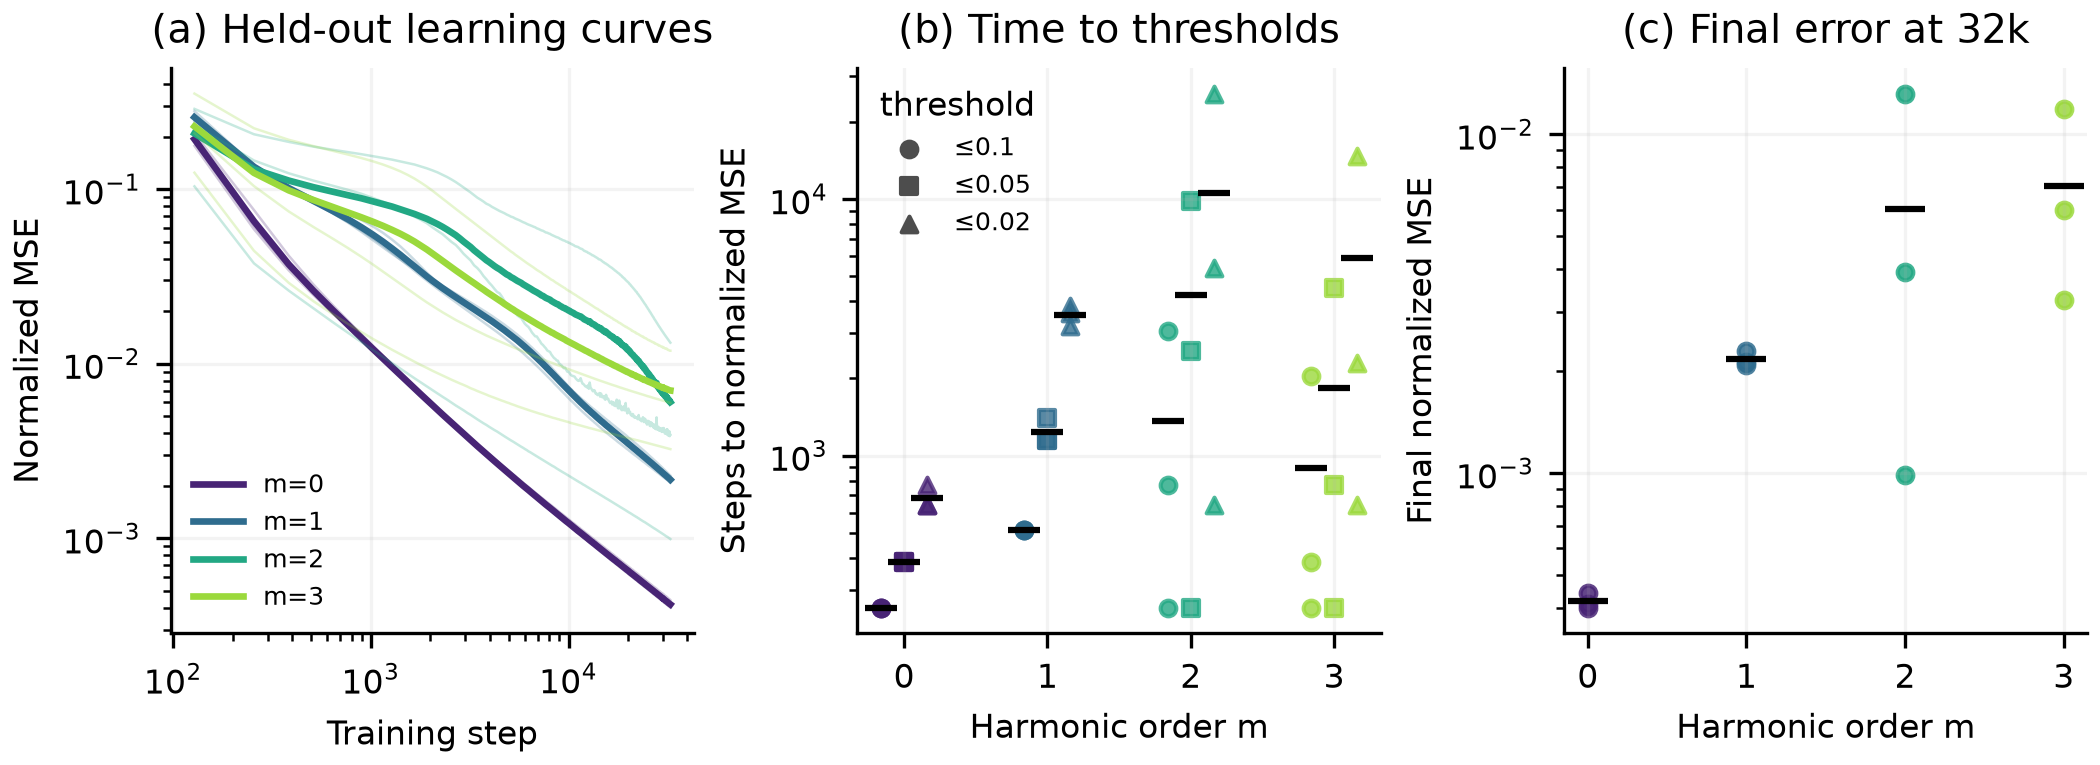
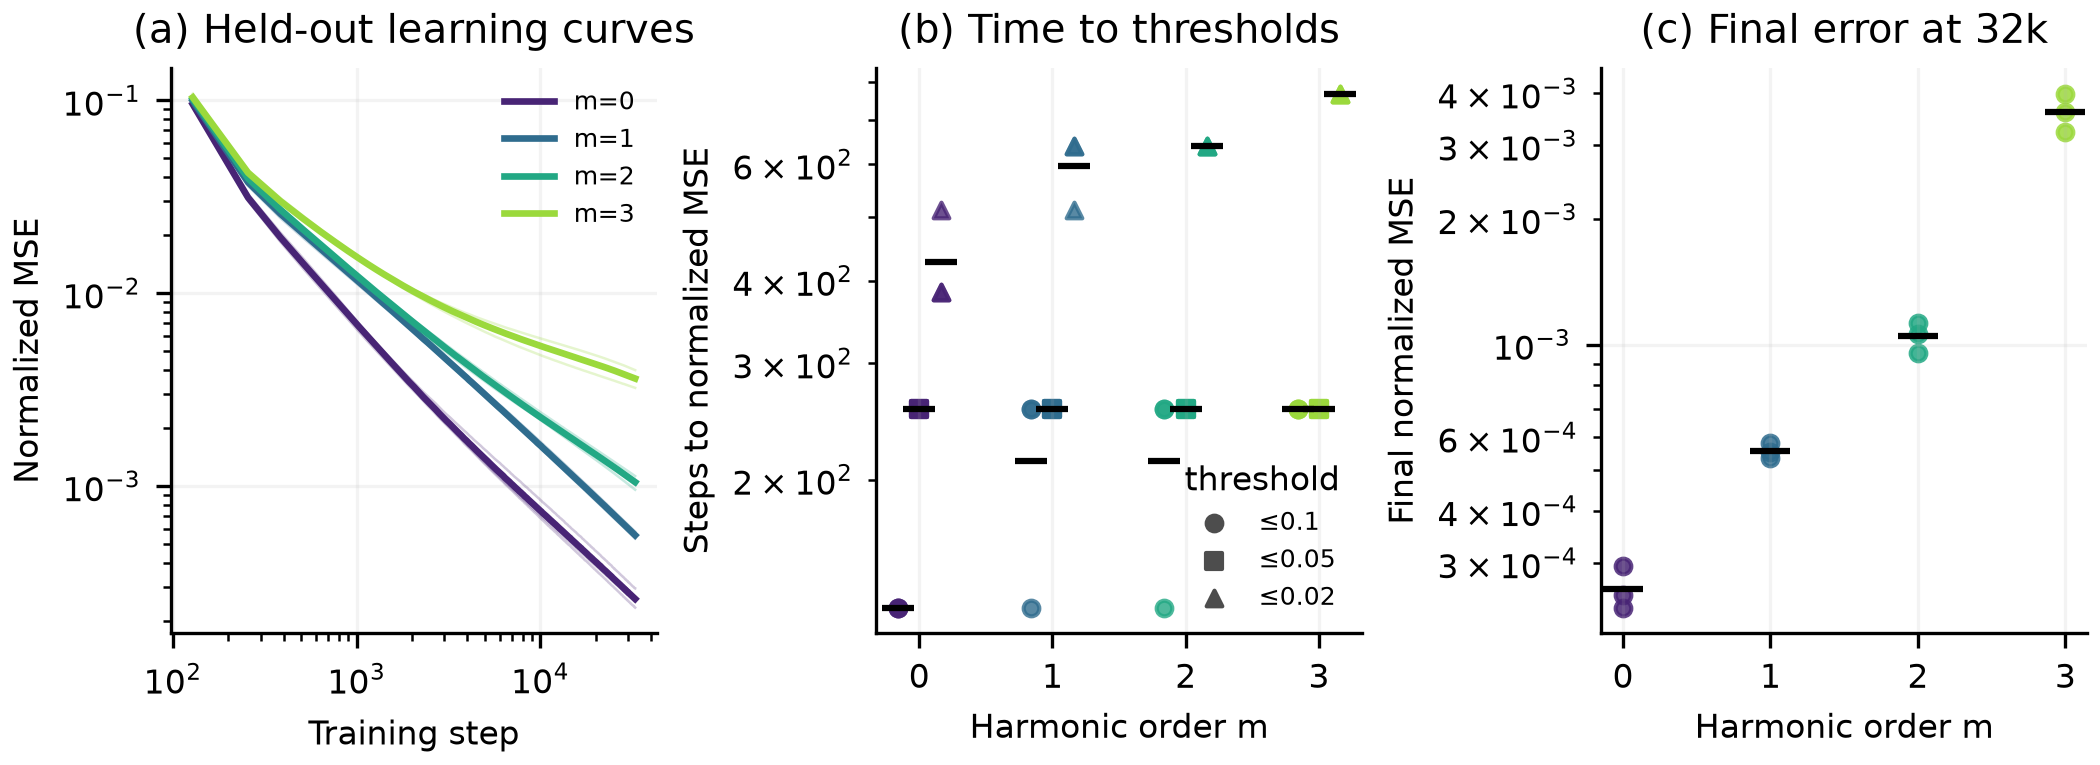
backup

diff --git a/src/bias/data.py b/src/bias/data.py
@@ -77,7 +77,8 @@ def make_phase_map(bands, levels, beta, n_per, ctx, k, seed, map_seed=None):
     modulation is ``beta`` at every level. ``map_seed`` controls the fixed harmonic
     phases; train and probe corpora must share it. ``seed`` controls window phases.
     Each window is RMS-normalized to total power 0.5, because a circle map's invariant
-    phase density need not be uniform.
+    phase density need not be uniform. Asserts that every carrier's phase velocity
+    ``omega + g(theta)`` stays positive, so no carrier locks.
     """
     bands = torch.as_tensor(bands, dtype=torch.float64).flatten()
     levels = torch.as_tensor(levels, dtype=torch.long).flatten()
@@ -101,6 +102,16 @@ def make_phase_map(bands, levels, beta, n_per, ctx, k, seed, map_seed=None):
         2
         * math.pi
         * torch.rand((n_bands, max_level), generator=map_gen, dtype=torch.float64)
+    )
+    grid = torch.linspace(0, 2 * math.pi, 4096, dtype=torch.float64)
+    advance = omega[:, None] + sum(
+        (levels >= harmonic).double()[:, None]
+        * gamma[:, None]
+        * torch.sin(harmonic * grid + harmonic_phase[:, harmonic - 1, None])
+        for harmonic in range(1, max_level + 1)
+    )
+    assert bool((advance > 0).all()), (
+        f"phase locks: min advance {advance.min(dim=1).values.tolist()}"
     )
     x = torch.zeros((n, ctx + k), dtype=torch.float64)
     for t in range(ctx + k):

diff --git a/experiments/2_map_complexity/scripts/run.py b/experiments/2_map_complexity/scripts/run.py
@@ -9,7 +9,7 @@ import torch.nn.functional as F
 from bias.data import make_phase_map
 from bias.model import SimTFM
 
-BANDS = (0.5, 2.5, 4.5, 6.5)
+BANDS = (2.5, 4.5, 6.5)
 LEVELS = (0, 1, 2, 3)
 BETA = 0.1
 CTX = 512

diff --git a/experiments/2_map_complexity/README.md b/experiments/2_map_complexity/README.md
@@ -3,9 +3,10 @@
 ## TLDR
 
 Adding nonlinearity to the one-step phase map slows learning relative to a pure
-rotation, but harmonic count is not a scalar complexity ordering. With power, carriers,
-state dimension, and initialization fixed, `m=2` is on average slower than `m=3`, and
-the ordering varies strongly across harmonic-phase realizations.
+rotation, and the slowdown is largest at the highest order once the carrier is in the
+no-lock regime. With power, carriers, state dimension, and initialization fixed,
+`m=0` reaches the highest final variance and `m=3` the lowest; `m=1` and `m=2` are
+close.
 
 ## What it does
 
@@ -18,7 +19,7 @@ x_i(t)=A_i\cos\theta_i(t),
 \sum_{k=1}^{m}\gamma_k\sin(k\theta_i(t)+\phi_k).
 \]
 
-- `ω_i` sets the carrier frequency.
+- `ω_i` sets the base carrier frequency.
 - `m` is the discrete complexity level: 0 is a pure rotation; 1, 2, and 3 add
   nonlinear phase harmonics.
 - Phase advances are defined per timestep, independent of patch boundaries.
@@ -30,12 +31,16 @@ x_i(t)=A_i\cos\theta_i(t),
 - Phase recurrence is evaluated in float64; float32 accumulation creates spurious
   sidebands over long records.
 
-Fixed carriers are `b = {0.5, 2.5, 4.5, 6.5}` cycles/patch. They are shared by every
-seed and every `m`.
+Fixed carriers are `b = {2.5, 4.5, 6.5}` cycles/patch. They are shared by every seed
+and every `m`. An earlier set included `b=0.5`, where `ω = 2πb/k ≈ 0.196` is comparable
+to the maximum modulation `β√(2m) ≤ 0.245`; some harmonic-phase draws then satisfy
+`ω + g(θ) ≤ 0`, the phase locks, and that carrier becomes a constant. At `b ≥ 2.5`,
+`min(ω + g) ≥ 0.78`, so no carrier can lock; the realized rotation number is within 1%
+of nominal. `make_phase_map` asserts this condition.
 
 - `k=16`, `ctx=512`, `H=64`, two layers, four heads.
 - 32,768 steps, batch 128, checkpoints every 128 steps.
-- Each model contains all four carriers at one `m`; models are not mixtures of map
+- Each model contains all three carriers at one `m`; models are not mixtures of map
   orders. A mixed model would make full-waveform error impossible to attribute.
 - Within a seed, `m=0,1,2,3` share carriers, initial phases, map phases, initial
   weights, and batch order. The three seeds vary phases, initialization, and batch
@@ -50,15 +55,16 @@ seed and every `m`.
 | --- | --- | --- |
 | total power | yes | constant envelope plus per-window RMS normalization |
 | intrinsic state dimension | yes | one scalar phase per carrier; `m` adds harmonics, not state variables |
-| carrier set | yes | four fixed carriers across all seeds and levels |
+| carrier set | yes | three fixed carriers across all seeds and levels |
 | map nonlinear order | manipulated | `m=0..3` |
 | observed spectral bandwidth | **not fixed** | phase modulation creates sidebands; measured and reported |
 | waveform complexity | changes with `m` | this is the treatment |
 
-The experiment supports a narrower statement than “higher order is harder”:
+The experiment supports a bounded statement:
 
-> Nonlinear phase maps change the learning schedule relative to a pure rotation, but
-> harmonic count alone is not a monotone measure of difficulty.
+> Nonlinear phase maps slow learning relative to a pure rotation, and the slowdown is
+> largest at the highest order in the no-lock regime. Adjacent orders `m=1` and `m=2`
+> are not resolved.
 
 It does **not** support a cross-carrier invariance claim. A phase-modulated signal is
 not a single carrier line: most power may sit near a carrier, but sidebands change the
@@ -108,8 +114,9 @@ observable function. It is not the full target map, because the model does not o
 
 ![data pilot](figs/data_pilot.png)
 
-*One carrier at `b=1` with identical initial phase. (a) Waveforms for `m=0..3`,
-vertically offset. (b) Phase-map derivative over one phase period. (c) Spectra.*
+*Pilot at `b=1` so the carrier sits on an FFT bin; the experiment uses
+`b={2.5,4.5,6.5}`. (a) Waveforms for `m=0..3`, vertically offset. (b) Phase-map
+derivative over one phase period. (c) Spectra.*
 
 | `m` | min derivative | phase RMS | spectral entropy | 95% bandwidth | RMS |
 | ---: | ---: | ---: | ---: | ---: | ---: |
@@ -118,10 +125,13 @@ vertically offset. (b) Phase-map derivative over one phase period. (c) Spectra.*
 | 2 | 0.741 | 0.100 | 0.028 | 0.150 | 0.707 |
 | 3 | 0.603 | 0.100 | 0.146 | 0.133 | 0.707 |
 
-- All maps remain orientation-preserving (`min derivative > 0`).
+- All maps remain orientation-preserving (`min derivative > 0`). This checks
+  invertibility, not phase advance; the generator separately asserts `min(ω+g)>0` for
+  the actual carriers.
 - Total RMS is exactly fixed at `sqrt(0.5)`.
-- Neither 95% bandwidth nor spectral entropy increases monotonically with `m`, so the
-  pilot does not support a simple “more sidebands means slower learning” explanation.
+- Neither 95% bandwidth nor spectral entropy increases monotonically with `m`. The
+  learning result is therefore about the latent map, not simply the observed sideband
+  width.
 
 ## Results
 
@@ -131,23 +141,24 @@ vertically offset. (b) Phase-map derivative over one phase period. (c) Spectra.*
 thick curves are means. (a) Held-out normalized MSE. (b) Steps to normalized-MSE
 thresholds; marks are seeds, dashes are means. (c) Final error.*
 
-| `m` | variance at 4096 | final variance | final range | `t(NMSE≤0.1)`, seeds |
+| `m` | variance at 4096 | final variance | final range | `t(NMSE≤0.02)`, seeds |
 | ---: | ---: | ---: | ---: | --- |
-| 0 | 0.9971 | 0.9996 | 0.9996–0.9996 | 256, 256, 256 |
-| 1 | 0.9813 | 0.9977 | 0.9975–0.9978 | 512, 512, 512 |
-| 2 | 0.9603 | 0.9936 | 0.9866–0.9990 | 3,072, 768, 256 |
-| 3 | 0.9753 | 0.9928 | 0.9884–0.9962 | 256, 384, 2,048 |
+| 0 | 0.9983 | 0.9997 | 0.9997–0.9998 | 384, 512, 384 |
+| 1 | 0.9964 | 0.9994 | 0.9994–0.9995 | 640, 640, 512 |
+| 2 | 0.9958 | 0.9989 | 0.9989–0.9990 | 640, 640, 640 |
+| 3 | 0.9926 | 0.9964 | 0.9960–0.9968 | 768, 768, 768 |
 
-- `m=0` is consistently fastest and reaches the highest final variance.
-- Every nonlinear map is slower than the pure rotation at 4096 steps on average.
-- The nonlinear ordering is **not monotone**: `m=2` is the slowest on average, while
-  `m=3` is faster for two of three seeds. Seed 0's `m=3` reaches `NMSE≤0.1` at the same
-  first checkpoint as `m=0`.
+- `m=0` is fastest and reaches the highest final variance; `m=3` is slowest and lowest.
+  Final variance is monotone in `m`: `0.9997 > 0.9994 > 0.9989 > 0.9964`.
+- Every nonlinear map is slower than the pure rotation at 4096 steps: `0.9964–0.9926`
+  versus `0.9983`.
+- The separation is modest at loose thresholds: at `NMSE≤0.05` every arm reaches by 256
+  steps. At `NMSE≤0.02`, `m=0` takes 384–512 steps, `m=3` takes 768, while `m=1` and
+  `m=2` are close (512–640). Do not overclaim an ordering between adjacent `m`.
+- Seed variance is small; the three harmonic-phase realizations agree on the ordering.
+  The earlier `b=0.5` run was different because phase locking turned one carrier into a
+  constant; that run is not evidence about `m`.
 - All arms improve through 32k steps; there is no evidence for a converged floor.
-- The three seeds differ in harmonic phases. This variation is large enough that
-  “number of harmonics” cannot be treated as a scalar complexity axis. A useful next
-  step would be more map realizations, or a complexity statistic tied to the realized
-  phase map rather than its formal order.
 
 ## Blog visualisation
 

diff --git a/.agents/PLAN.md b/.agents/PLAN.md
@@ -37,7 +37,7 @@ the learning curves have plateaued.
 | --- | --- | --- | --- |
 | `0_power_schedule` | does assigned power set the learning schedule? | complete | final `Δk` Spearman `−0.992` with log power, `−0.090` with frequency; `t ∝ P^-1.083`, `R²=0.999` |
 | `1_snr_schedule` | does white noise slow learning, and is high frequency only a proxy for low SNR? | complete | `t(Δk≤0.5)` rises 723 → 3,119 steps as noise/signal RMS rises 0→1; red and anti-red level curves almost coincide |
-| `2_map_complexity` | does nonlinear phase-map order alone change the schedule? | complete | nonlinear maps slower than pure rotation, but `m` is not monotone: mean `t(NMSE≤0.1)` is 256 / 512 / 1,365 / 896 for `m=0..3`; map realization dominates |
+| `2_map_complexity` | does nonlinear phase-map order alone change the schedule? | complete | nonlinear maps slower than pure rotation; final variance monotone in `m` (0.9997 / 0.9994 / 0.9989 / 0.9964); `m=0` vs `m=3` separated at `t(NMSE≤0.02)`, `m=1`/`m=2` close |
 
 ### Group 0 details
 
@@ -63,7 +63,11 @@ the learning curves have plateaued.
 
 ### Group 2 details
 
-- Four fixed carriers `{0.5, 2.5, 4.5, 6.5}`, `k=16`, `ctx=512`, `H=64`, two layers.
+- Three fixed carriers `{2.5, 4.5, 6.5}`, `k=16`, `ctx=512`, `H=64`, two layers.
+  The earlier set included `b=0.5`; there `ω ≈ 0.196` is comparable to the modulation
+  peak `β√(2m) ≤ 0.245`, so some harmonic-phase draws lock the phase (`ω+g ≤ 0`) and
+  turn that carrier into a constant. At `b ≥ 2.5`, `min(ω+g) ≥ 0.78`; `make_phase_map`
+  asserts this.
 - Generalized circle map per timestep with `m` harmonics and fixed phase-modulation RMS
   `β=0.1`.
 - One model per `m`; all carriers in a model share the same `m`. Within a seed the four
@@ -77,18 +81,19 @@ the learning curves have plateaued.
   full history-to-next map `H_m` also contains phase inference. We therefore claim
   control of latent map order, not ambient `R^L` Fourier rank; circle maps are chosen
   for power and state-dimension control.
-- Result: nonlinear maps are slower than the pure rotation, but the nonlinear ordering
-  is not monotone. `m=2` is on average slowest; `m=3` is faster for two of three
-  harmonic-phase realizations. All arms still improve at 32k, so this is not a
-  converged-floor result.
-- The useful claim is therefore “map nonlinearity carries a learning cost; harmonic
-  count alone is not a scalar complexity ordering.”
+- Result (safe carriers): nonlinear maps are slower than the pure rotation, and final
+  variance is monotone in `m`: `0.9997 > 0.9994 > 0.9989 > 0.9964` for `m=0..3`. At
+  `t(NMSE≤0.02)`, `m=0` takes 384–512 steps and `m=3` 768; `m=1` and `m=2` are close
+  (512–640). Seed variance is small. All arms still improve at 32k.
+- The earlier `b=0.5` run produced a spurious non-monotone ordering because phase
+  locking turned one carrier into a constant. Do not report those numbers.
 
 ## Immediate work
 
-1. For group 2, decide whether to add more harmonic-phase realizations or define a
-   realized-map complexity statistic. Do not present `m` as a monotone ordering.
-2. Build the group-2 blog figure around seed variability and the non-monotone result.
+1. For group 2, report the monotone final-variance ordering and the `m=0` vs `m=3`
+   separation; do not overclaim an ordering between `m=1` and `m=2`.
+2. Build the group-2 blog figure around the learning curves and the `m=0` vs `m=3`
+   separation. Note that the earlier non-monotone result was a locking artifact.
 3. Add the scale-matched noiseless control for SNR before making a strong causal noise
    claim.
 4. Re-run group 0 with early checkpoints for an unbiased scaling exponent.

diff --git a/docs/README.md b/docs/README.md
@@ -108,7 +108,9 @@ Those are different physical variables and should be measured separately.
    clean input where shrinking is wrong.
 4. **Carrier frequency from the actual spectrum after modulation.** Once a signal is
    phase- or amplitude-modulated, its power is not localized at a single carrier. A
-   "carrier" parameter is not the same object as the dominant signal frequency.
+   "carrier" parameter is not the same object as the dominant signal frequency. In an
+   autonomous phase map, the realized rotation number can even be zero (phase locking)
+   when the modulation peak exceeds the base frequency.
 
 ## What this project contributes
 
@@ -120,8 +122,8 @@ Those are different physical variables and should be measured separately.
    unchanged.
 3. A separate map-complexity experiment with fixed carriers, fixed total power, and a
    single scalar phase state per carrier. Nonlinear maps are slower than a pure
-   rotation, but harmonic count is not a monotone difficulty scale: map realization
-   matters, and `m=2` is on average slower than `m=3`.
+   rotation, and the slowdown is largest at the highest order in the no-lock regime:
+   `m=0` is fastest and `m=3` slowest, while `m=1` and `m=2` are close.
 4. A vocabulary and evaluation protocol: report signal spectrum, effective power/SNR,
    map complexity, schedule, and floor as different quantities.
 

diff --git a/experiments/README.md b/experiments/README.md
@@ -7,7 +7,8 @@
 - [`1_snr_schedule`](1_snr_schedule/): white-noise dose response and red/anti-red
   power-frequency assignments, with clean and noisy probes.
 - [`2_map_complexity`](2_map_complexity/): Fourier-harmonic circle-map complexity
-  sweep. Nonlinear maps slow learning, but harmonic count is not monotone.
+  sweep. Nonlinear maps slow learning, and the slowdown grows with harmonic order in
+  the no-lock regime.
 
 Each group contains a README, Makefile, scripts, outputs, and figures.
 
